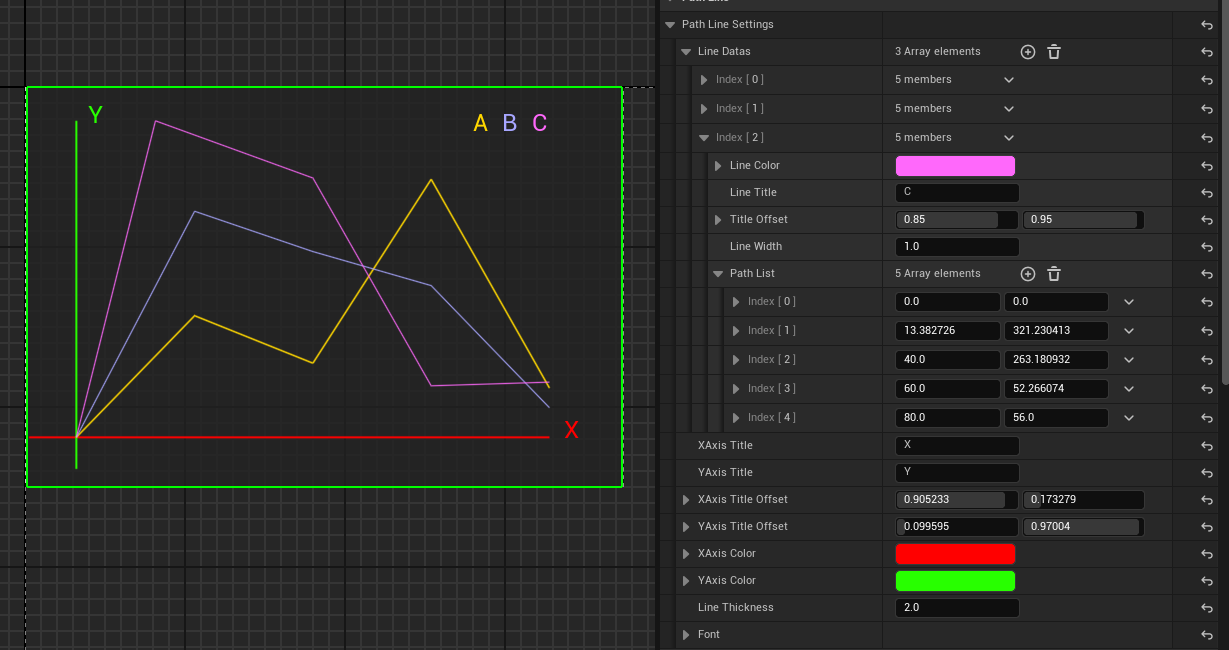
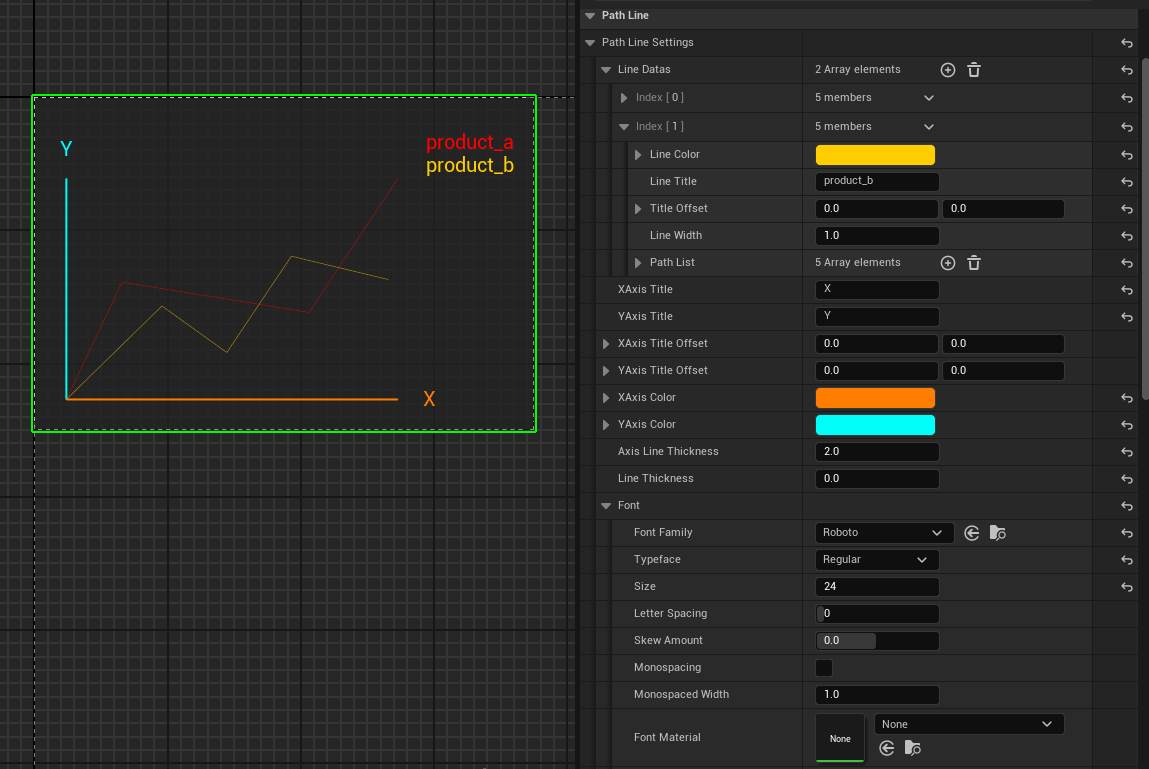
优化折线图的显示

diff --git a/Source/SimpleCharts/Private/PathLine/SPathLine.cpp b/Source/SimpleCharts/Private/PathLine/SPathLine.cpp
@@ -4,7 +4,10 @@
 #include "PathLine/SPathLine.h"
 #include "SlateOptMacros.h"
 
+#include "Fonts/FontMeasure.h"
+
 BEGIN_SLATE_FUNCTION_BUILD_OPTIMIZATION
+
 void SPathLine::Construct(const FArguments& InArgs)
 {
 	PathLineSettings = InArgs._PathLineSettings;
@@ -18,50 +21,89 @@ FVector2D SPathLine::ComputeDesiredSize(float) const
 int32 SPathLine::OnPaint(const FPaintArgs& Args, const FGeometry& AllottedGeometry, const FSlateRect& MyCullingRect, FSlateWindowElementList& OutDrawElements, int32 LayerId,
 	const FWidgetStyle& InWidgetStyle, bool bParentEnabled) const
 {
+	
 	FVector2D LocalSize = AllottedGeometry.GetLocalSize();
-	float Scale = 0.8;
-	// offset
-	FVector2D Offset = LocalSize * 0.1; Offset.Y *= -1;
-	
-	// draw axis
-	FSlateDrawElement::MakeLines(OutDrawElements,LayerId,AllottedGeometry.ToPaintGeometry(FSlateLayoutTransform(Scale)),
-		{GetConvertPos(FVector2D(-Offset.X,0)+Offset),GetConvertPos(FVector2D(LocalSize.X,0)+Offset)},ESlateDrawEffect::None,PathLineSettings.XAxisColor,true,PathLineSettings.LineThickness);
-	FSlateDrawElement::MakeLines(OutDrawElements,LayerId,AllottedGeometry.ToPaintGeometry(FSlateLayoutTransform(Scale)),
-		{GetConvertPos(FVector2D(0,Offset.Y)+Offset),GetConvertPos(FVector2D(0,LocalSize.Y)+Offset)},ESlateDrawEffect::None,PathLineSettings.YAxisColor,true,PathLineSettings.LineThickness);
-
-	// calc maxX & maxY
+	// 获取X-Y坐标轴的最大值,用于统一缩放
 	FVector2D MaxXY = GetMaxXY();
+	// font
+	TSharedRef<FSlateFontMeasure> fontMeasure = FSlateApplication::Get().GetRenderer()->GetFontMeasureService();
+
 	
-	// draw line
-	if (PathLineSettings.LineDatas.Num())
+	// draw X Axis
+	TArray<FVector2D> Points;
+	float x_length = LocalSize.X * PathLineSettings.AxisScale;
+	Points.Add(GetConvertPos(FVector2D(0.0f, 0.0f) + PathLineSettings.AxisOffset));
+	Points.Add(GetConvertPos(FVector2D(x_length, 0.0f) + PathLineSettings.AxisOffset));
+	FSlateDrawElement::MakeLines(OutDrawElements,LayerId,AllottedGeometry.ToPaintGeometry(),Points,ESlateDrawEffect::None,PathLineSettings.XAxisColor,true,PathLineSettings.AxisLineThickness);
+	FVector2D text_size_a =  fontMeasure->Measure(PathLineSettings.XAxisTitle,PathLineSettings.Font,1);
+
+	FVector2D text_offset_a = Points[1];
+	text_offset_a.X += LocalSize.X * 0.05;
+	text_offset_a.Y -= text_size_a.Y / 2;
+	FSlateDrawElement::MakeText(OutDrawElements,LayerId,AllottedGeometry.ToOffsetPaintGeometry(text_offset_a + PathLineSettings.XAxisTitleOffset * LocalSize),PathLineSettings.XAxisTitle,PathLineSettings.Font,ESlateDrawEffect::None,PathLineSettings.XAxisColor);
+
+	// draw Y Axis
+	float y_length = LocalSize.Y * PathLineSettings.AxisScale;
+	Points[1] = GetConvertPos(FVector2D(0, y_length) + PathLineSettings.AxisOffset);
+	FSlateDrawElement::MakeLines(OutDrawElements,LayerId,AllottedGeometry.ToPaintGeometry(),Points,ESlateDrawEffect::None,PathLineSettings.YAxisColor,true,PathLineSettings.AxisLineThickness);
+
+	FVector2D text_size_b =  fontMeasure->Measure(PathLineSettings.YAxisTitle,PathLineSettings.Font,1);
+	FVector2D text_offset_b = Points[1];
+	text_offset_b.X -= text_size_b.X / 2;
+	text_offset_b.Y -= LocalSize.Y * 0.05 + text_size_b.Y;
+	FSlateDrawElement::MakeText(OutDrawElements,LayerId,AllottedGeometry.ToOffsetPaintGeometry(text_offset_b + PathLineSettings.YAxisTitleOffset * LocalSize),PathLineSettings.YAxisTitle,PathLineSettings.Font,ESlateDrawEffect::None,PathLineSettings.YAxisColor);
+
+	// 没有数据时只绘制坐标轴
+	if (PathLineSettings.LineDatas.Num() <= 0)
 	{
-		for ( const FPathLineData & it : PathLineSettings.LineDatas)
-		{
-			FSlateDrawElement::MakeLines(OutDrawElements,LayerId,AllottedGeometry.ToPaintGeometry(FSlateLayoutTransform(Scale)),
-				ConvertPosArray(it.PathList,MaxXY,Offset),ESlateDrawEffect::None,it.LineColor,true,it.LineWidth);
-
-			FSlateDrawElement::MakeText(OutDrawElements,LayerId,AllottedGeometry.ToOffsetPaintGeometry(GetTitleOffset(it.TitleOffset)),it.LineTitle,PathLineSettings.Font,ESlateDrawEffect::None,it.LineColor);
-
-		}
+		return LayerId;
 	}
 
-	// draw title
-	FSlateDrawElement::MakeText(OutDrawElements,LayerId,AllottedGeometry.ToOffsetPaintGeometry(GetTitleOffset(PathLineSettings.XAxisTitleOffset)),PathLineSettings.XAxisTitle,PathLineSettings.Font,ESlateDrawEffect::None,PathLineSettings.XAxisColor);
-	FSlateDrawElement::MakeText(OutDrawElements,LayerId,AllottedGeometry.ToOffsetPaintGeometry(GetTitleOffset(PathLineSettings.YAxisTitleOffset)),PathLineSettings.YAxisTitle,PathLineSettings.Font,ESlateDrawEffect::None,PathLineSettings.YAxisColor);
+	// 主要是为了获取Y
+	FVector2D text_size = fontMeasure->Measure(PathLineSettings.LineDatas[0].LineTitle,PathLineSettings.Font,1);
 	
+	// draw path
+	for (int32 i = 0; i < PathLineSettings.LineDatas.Num(); ++i)
+	{
+		const FPathLineData & it = PathLineSettings.LineDatas[i];
+		
+		TArray<FVector2D> SortArray = GetSortArray(it.PathList);
+		// 只有一个点或者没有点时跳过
+		if (SortArray.Num() < 2)
+		{
+			continue;
+		}
+		TArray<FVector2D> PathPoints;
+		for (int32 m = 0; m < SortArray.Num(); ++m)
+		{
+			// 计算按比例缩放后的点
+			FVector2D scalePoint =  SortArray[m] / MaxXY * LocalSize;
+			// 将其偏移并缩放到坐标轴中
+			FVector2D offsetPoint = PathLineSettings.AxisOffset +  scalePoint *  PathLineSettings.AxisScale;
+			PathPoints.Add(GetConvertPos(offsetPoint));
+		}
+		FSlateDrawElement::MakeLines(OutDrawElements,LayerId,AllottedGeometry.ToPaintGeometry(),PathPoints,ESlateDrawEffect::None,it.LineColor,true,PathLineSettings.LineThickness);
+
+		// 绘制 Title
+		// 对整体位置进行offset
+		FVector2D text_offset = PathLineSettings.TitleOffset * LocalSize;
+		text_offset.Y -= i * text_size.Y;
+		// 单独进行offset
+		text_offset += it.TitleOffset * LocalSize;
+		FSlateDrawElement::MakeText(OutDrawElements,LayerId,AllottedGeometry.ToOffsetPaintGeometry(GetConvertPos(text_offset)),it.LineTitle,PathLineSettings.Font,ESlateDrawEffect::None,it.LineColor);
+	}
 	
 	return ++LayerId;
 }
 
-TArray<FVector2D> SPathLine::ConvertPosArray(const TArray<FVector2D>& InPosArray,FVector2D MaxXY,FVector2D Offset) const
+
+TArray<FVector2D> SPathLine::GetSortArray(const TArray<FVector2D>& InPosArray) const
 {
-	TArray<FVector2D> Tmp;
-	Tmp.AddZeroed(InPosArray.Num());
-	FVector2D LocalSize = GetCachedGeometry().GetLocalSize();
-	for (int32 i = 0; i < InPosArray.Num(); ++i)
+	TArray<FVector2D> Tmp = InPosArray;
+	Algo::Sort(Tmp,[](FVector2D v1,FVector2D v2) ->bool
 	{
-		Tmp[i] = GetConvertPos(InPosArray[i] / MaxXY * LocalSize + Offset);
-	}
+		return v1.X < v2.X;
+	});
 	return Tmp;
 }
 
@@ -95,12 +137,6 @@ FVector2D SPathLine::GetMaxXY() const
 	return Tmp;
 }
 
-// the input pos in (0-1)
-FVector2D SPathLine::GetTitleOffset(const FVector2D& InPos) const
-{
-	FVector2D LocalSize = GetCachedGeometry().GetLocalSize() * InPos;
-	return GetConvertPos(LocalSize);
-}
 
 END_SLATE_FUNCTION_BUILD_OPTIMIZATION
 

diff --git a/Source/SimpleCharts/Public/PathLine/SPathLine.h b/Source/SimpleCharts/Public/PathLine/SPathLine.h
@@ -30,9 +30,8 @@ private:
 	virtual int32 OnPaint(const FPaintArgs& Args, const FGeometry& AllottedGeometry, const FSlateRect& MyCullingRect, FSlateWindowElementList& OutDrawElements, int32 LayerId,
 		const FWidgetStyle& InWidgetStyle, bool bParentEnabled) const override;
 
-	TArray<FVector2D> ConvertPosArray(const TArray<FVector2D>& InPosArray,FVector2D MaxXY,FVector2D Offset) const;
+	TArray<FVector2D> GetSortArray(const TArray<FVector2D>& InPosArray) const;
 	FVector2D GetConvertPos(const FVector2D& InPos) const;
 	FVector2D GetMaxXY() const;
-	FVector2D GetTitleOffset(const FVector2D& InPos) const;
 };
 

diff --git a/Source/SimpleCharts/Public/Types/PathLineType.h b/Source/SimpleCharts/Public/Types/PathLineType.h
@@ -37,7 +37,15 @@ struct FPathLineSettings
 	UPROPERTY(EditAnywhere, BlueprintReadWrite)
 	FLinearColor YAxisColor = FLinearColor::White;
 	UPROPERTY(EditAnywhere, BlueprintReadWrite)
+	float AxisLineThickness = 1.f;
+	UPROPERTY(EditAnywhere, BlueprintReadWrite)
 	float LineThickness = 1.f;
 	UPROPERTY(EditAnywhere, BlueprintReadWrite)
 	FSlateFontInfo Font;
+	UPROPERTY(EditAnywhere, BlueprintReadWrite)
+	FVector2D AxisOffset;
+	UPROPERTY(EditAnywhere, BlueprintReadWrite)
+	float AxisScale = 1;
+	UPROPERTY(EditAnywhere, BlueprintReadWrite,meta=(ClampMax=1,ClampMin=0))
+	FVector2D TitleOffset;
 };
